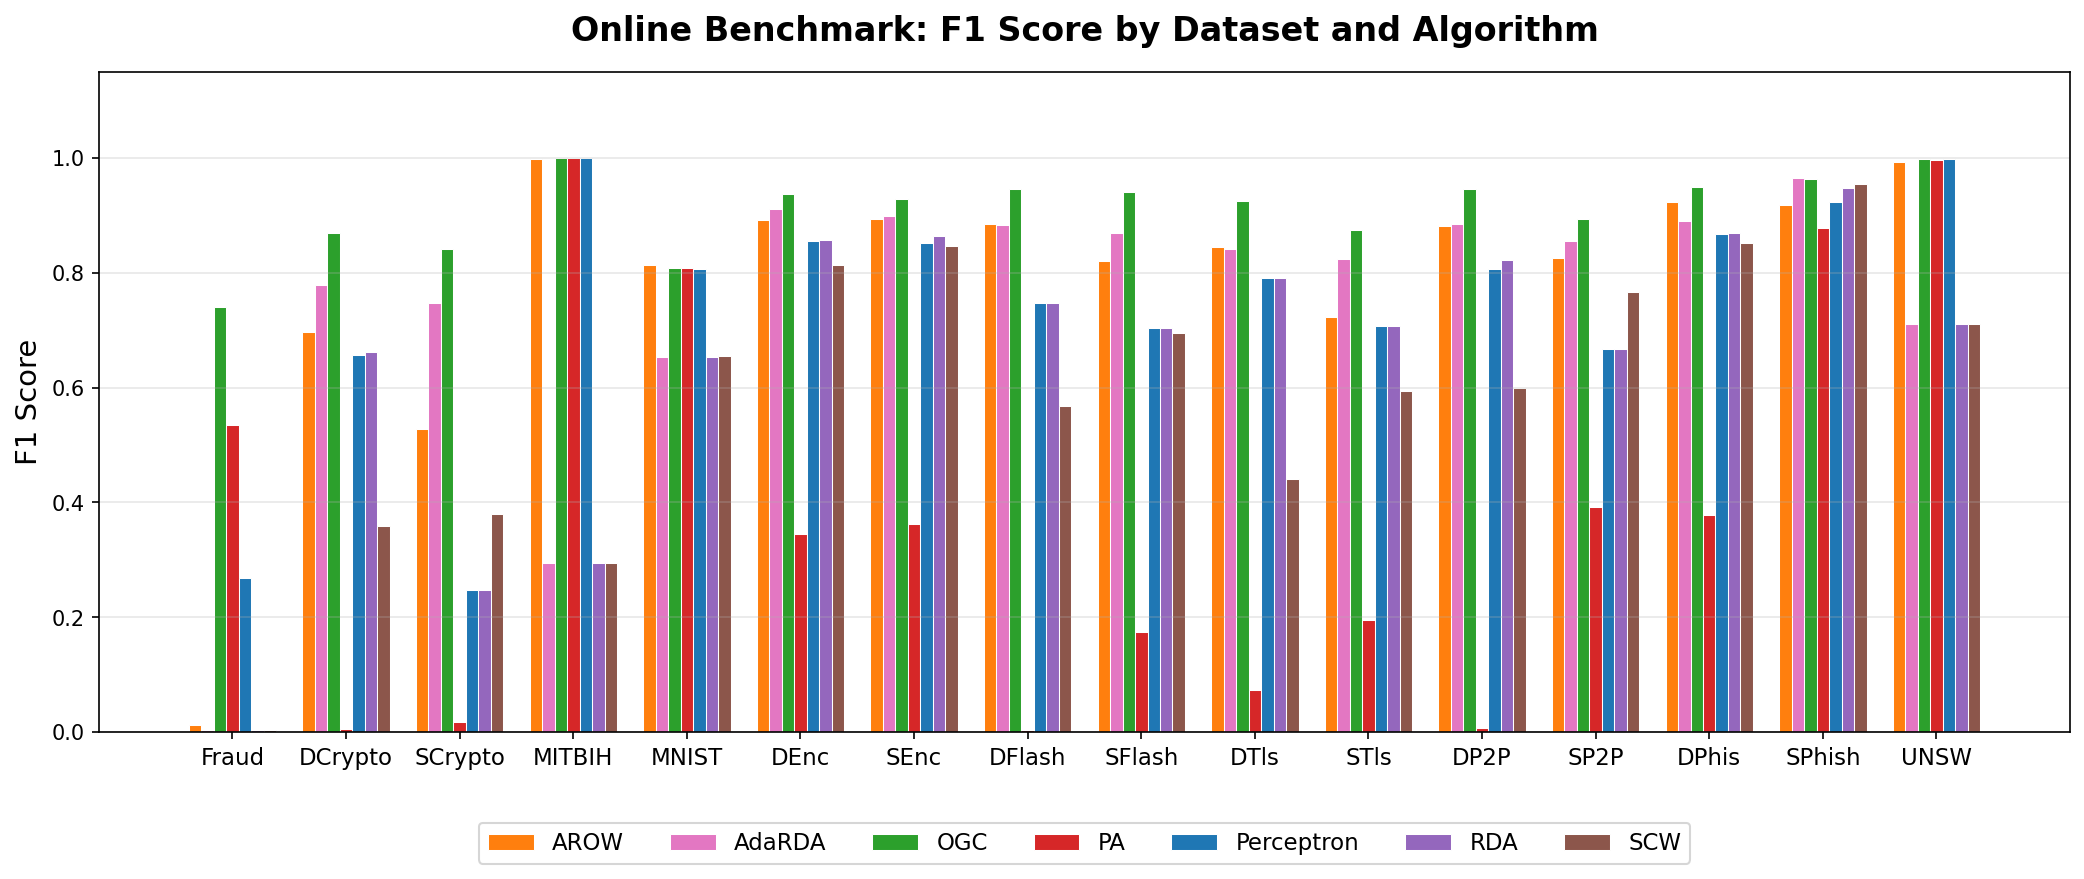
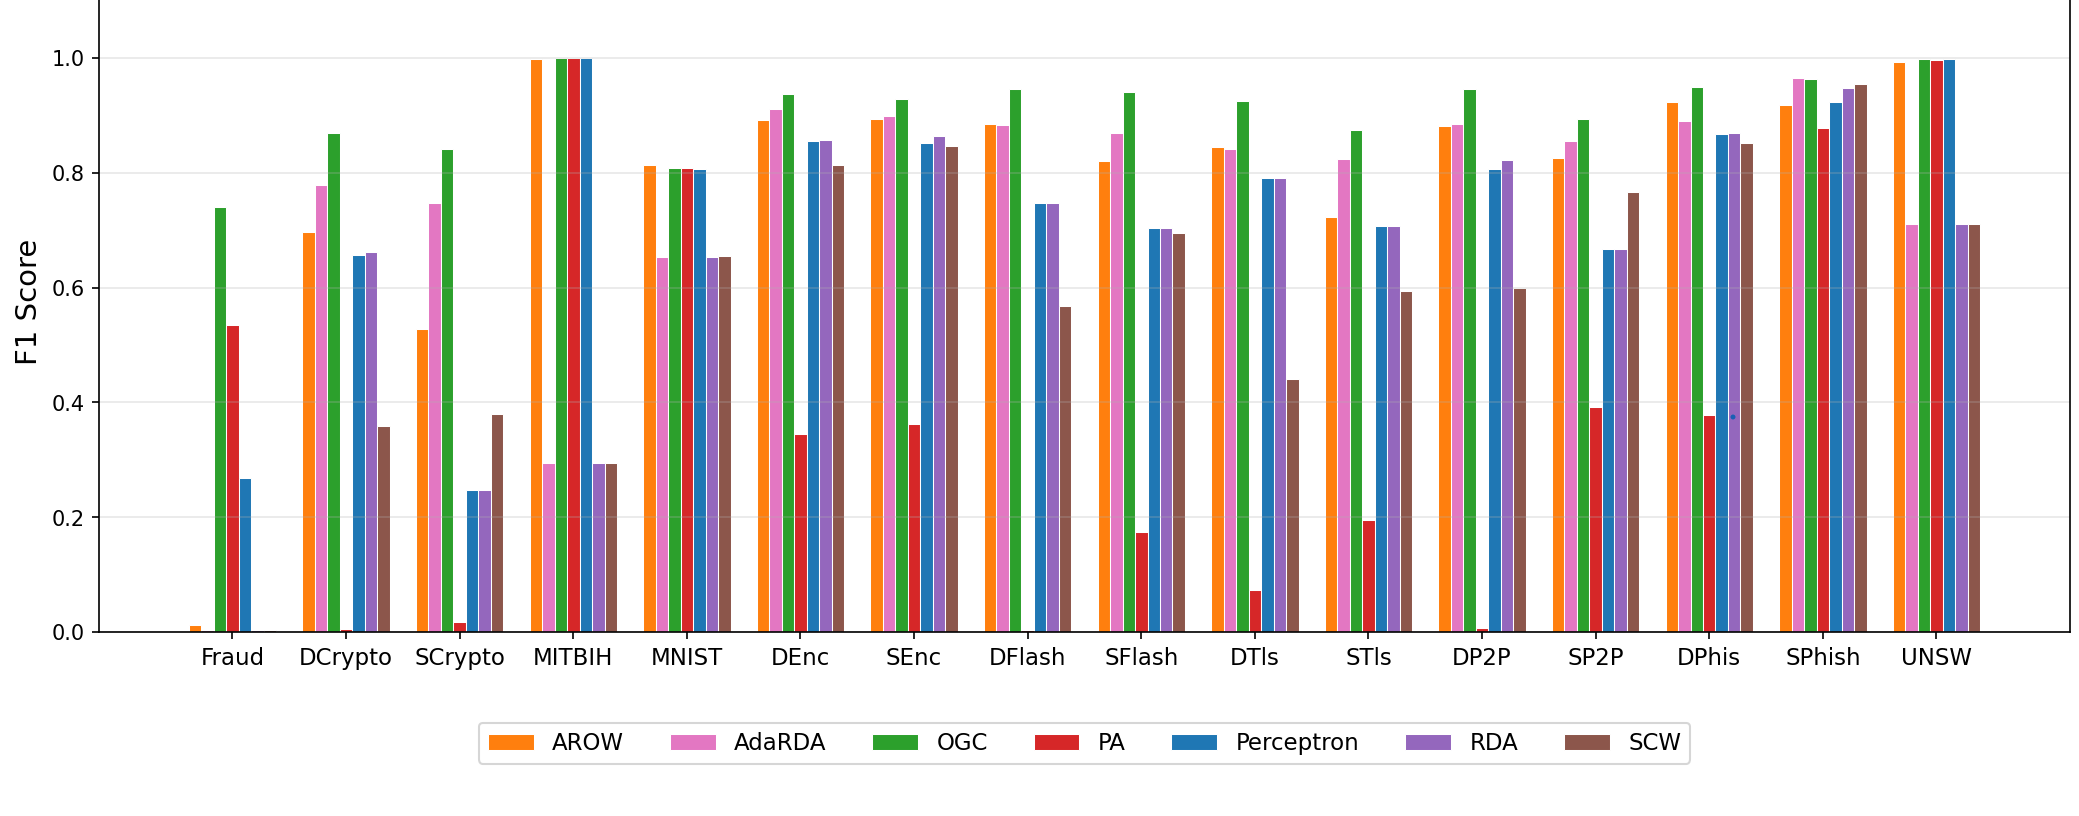
Data addition to dash

diff --git a/online-classification/dash/app.py b/online-classification/dash/app.py
@@ -5,6 +5,7 @@ from flask import Flask, render_template, jsonify, request, make_response
 import pandas as pd
 import numpy as np
 from sklearn.metrics import confusion_matrix
+from sklearn.preprocessing import StandardScaler
 import threading
 import time
 import logging
@@ -127,49 +128,139 @@ def OGC(X, y, initial_weights, eta=0.1):
         if y_actual * x.dot(w) < 1: w -= eta * (-y_actual * x)
     return w, y_pred
 
-def load_and_process_data(file_path):
-    """Loads and processes a single parquet file using the required aggregation logic."""
-    try:
-        df = pd.read_parquet(file_path)
-        
-        # Determine the correct time column name
-        if 'Time' in df.columns:
-            time_col = 'Time'
-        elif 'timestamp' in df.columns:
-            time_col = 'timestamp'
-        else:
-            raise KeyError("No time column found. Expected 'Time' or 'timestamp'.")
-        
-        # Determine the correct label column name
-        if 'Class' in df.columns:
-            label_col = 'Class'
-        elif 'label' in df.columns:
-            label_col = 'label'
-        else:
-            raise KeyError("No label column found. Expected 'Class' or 'label'.")
-        
-        df = df.sort_values([time_col]).reset_index(drop=True)
-        
+def _ogc_pretrain(X, y, eta=0.1):
+    """Single-pass OGC weight initialisation from training data (no UI updates)."""
+    w = np.zeros(X.shape[1], dtype=np.float64)
+    for i in range(len(X)):
+        x_i, y_i = X[i], y[i]
+        if y_i * x_i.dot(w) < 1:
+            w -= eta * (-y_i * x_i)
+    return w
+
+
+def detect_and_load_dataset(dataset_name, data_dir):
+    """Auto-detect dataset type from name and apply the correct loading strategy.
+
+    Returns
+    -------
+    X_stream : pd.DataFrame   — feature rows to stream through the simulation
+    y_stream : pd.Series      — corresponding labels
+    pretrained_weights : np.ndarray or None
+        Weights pre-trained on the training split (where applicable);
+        None for cybersecurity datasets that use prequential evaluation.
+
+    Dataset dispatch (mirrors experiments.py logic):
+      UNSW_NB15        → separate _train/_test parquets, StandardScaler, pretrain
+      MITBIH_Arrhythmia→ separate _train/_test parquets, pretrain (no scaling needed)
+      MNIST            → 80/20 shuffle split, binary label (≥5 → +1), pretrain
+      CreditFraud/Kaggle→ temporal 80/20 split, label col 'Class', pretrain
+      Cybersecurity    → single file grouped by timestamp, prequential (no pretrain)
+    """
+    # ── UNSW_NB15 ──────────────────────────────────────────────────────────────
+    if 'UNSW' in dataset_name.upper():
+        train_path = os.path.join(data_dir, 'UNSW_NB15_train.parquet')
+        test_path  = os.path.join(data_dir, 'UNSW_NB15_test.parquet')
+        df_tr = pd.read_parquet(train_path).dropna()
+        df_te = pd.read_parquet(test_path).dropna()
+        feat_cols = [c for c in df_tr.columns if c != 'label']
+        X_tr = df_tr[feat_cols].values.astype(np.float64)
+        X_te = df_te[feat_cols].values.astype(np.float64)
+        y_tr = np.where(df_tr['label'].values == 0, -1, 1)
+        y_te = np.where(df_te['label'].values == 0, -1, 1)
+        scaler = StandardScaler()
+        X_tr = scaler.fit_transform(X_tr)
+        X_te = scaler.transform(X_te)
+        pretrained_weights = _ogc_pretrain(X_tr, y_tr)
+        return pd.DataFrame(X_te, columns=feat_cols), pd.Series(y_te), pretrained_weights
+
+    # ── MITBIH Arrhythmia ──────────────────────────────────────────────────────
+    if 'MITBIH' in dataset_name.upper():
+        train_path = os.path.join(data_dir, 'MITBIH_Arrhythmia_train.parquet')
+        test_path  = os.path.join(data_dir, 'MITBIH_Arrhythmia_test.parquet')
+        df_tr = pd.read_parquet(train_path)
+        df_te = pd.read_parquet(test_path)
+        feat_cols = [c for c in df_tr.columns if c != 'label']
+        X_tr = df_tr[feat_cols].values.astype(np.float64)
+        X_te = df_te[feat_cols].values.astype(np.float64)
+        y_tr = np.where(df_tr['label'].values == 0, -1.0, 1.0)
+        y_te = np.where(df_te['label'].values == 0, -1.0, 1.0)
+        pretrained_weights = _ogc_pretrain(X_tr, y_tr)
+        return pd.DataFrame(X_te, columns=feat_cols), pd.Series(y_te), pretrained_weights
+
+    # ── MNIST ──────────────────────────────────────────────────────────────────
+    if 'MNIST' in dataset_name.upper():
+        fpath = os.path.join(data_dir, f'{dataset_name}.parquet')
+        df = pd.read_parquet(fpath)
+        df['label_binary'] = np.where(df['label'] >= 5, 1, -1)
+        df = df.sample(frac=1, random_state=42).reset_index(drop=True)
+        split = int(0.8 * len(df))
+        train_df, val_df = df.iloc[:split], df.iloc[split:]
+        feat_cols = [c for c in df.columns
+                     if c not in ['label', 'label_binary']
+                     and np.issubdtype(df[c].dtype, np.number)]
+        X_tr = train_df[feat_cols].values.astype(np.float64)
+        y_tr = train_df['label_binary'].values.astype(np.float64)
+        X_te = val_df[feat_cols].values.astype(np.float64)
+        y_te = val_df['label_binary'].values.astype(np.float64)
+        scaler = StandardScaler()
+        X_tr = scaler.fit_transform(X_tr)
+        X_te = scaler.transform(X_te)
+        pretrained_weights = _ogc_pretrain(X_tr, y_tr)
+        return pd.DataFrame(X_te, columns=feat_cols), pd.Series(y_te), pretrained_weights
+
+    # ── CreditFraud / Kaggle ───────────────────────────────────────────────────
+    if 'KAGGLE' in dataset_name.upper() or 'CREDITFRAUD' in dataset_name.upper():
+        fpath = os.path.join(data_dir, f'{dataset_name}.parquet')
+        df = pd.read_parquet(fpath)
         if 'user_id' in df.columns:
             df = df.drop(columns=['user_id'])
-        
-        x_df = df.groupby([time_col]).sum()
-        y_series = x_df[label_col].map(lambda x: 1 if x > 0 else -1)
-        x_df = x_df.drop(columns=[label_col])
-        return x_df, y_series
-    except Exception as e:
-        logging.error(f"Failed to load/process {file_path}: {e}")
-        raise
+        if 'Time' in df.columns:
+            df = df.sort_values('Time').reset_index(drop=True)
+        split_idx = int(0.8 * len(df))
+        train_data = df.iloc[:split_idx].copy()
+        test_data  = df.iloc[split_idx:].copy()
+        label_col  = 'Class' if 'Class' in df.columns else 'label'
+        drop_cols  = ['Time', 'timestamp', 'user_id', 'label', 'Class']
+        feat_cols  = [c for c in df.columns if c not in drop_cols]
+        X_tr = train_data[feat_cols].values.astype(np.float64)
+        X_te = test_data[feat_cols].values.astype(np.float64)
+        y_tr = np.where(train_data[label_col].values == 0, -1, 1)
+        y_te = np.where(test_data[label_col].values == 0, -1, 1)
+        scaler = StandardScaler()
+        X_tr = scaler.fit_transform(X_tr)
+        X_te = scaler.transform(X_te)
+        pretrained_weights = _ogc_pretrain(X_tr, y_tr)
+        return pd.DataFrame(X_te, columns=feat_cols), pd.Series(y_te), pretrained_weights
+
+    # ── Cybersecurity (single file, timestamp grouping, prequential) ───────────
+    fpath = os.path.join(data_dir, f'{dataset_name}.parquet')
+    df = pd.read_parquet(fpath)
+    time_col = ('Time' if 'Time' in df.columns
+                else 'timestamp' if 'timestamp' in df.columns
+                else None)
+    if time_col is None:
+        raise ValueError(f"No time column found in {dataset_name}")
+    if 'user_id' in df.columns:
+        df = df.drop(columns=['user_id'])
+    df = df.sort_values(time_col).reset_index(drop=True)
+    x_df = df.groupby(time_col).sum()
+    label_col = 'label' if 'label' in x_df.columns else 'Class'
+    y_series = x_df[label_col].map(lambda v: 1 if v > 0 else -1)
+    x_df = x_df.drop(columns=[label_col])
+    return x_df, y_series, None  # prequential — no pre-training
 
 # =============================================================================
 # SIMULATION STATE MANAGEMENT
 # =============================================================================
 class Simulation:
-    def __init__(self, dataset_name, X_data, y_data):
+    def __init__(self, dataset_name, X_data, y_data, pretrained_weights=None):
         self.dataset_name, self.X_data, self.y_data = dataset_name, X_data, y_data
         self.status, self.logs, self.alerts = "running", [], []
-        self.weights = np.zeros(X_data.shape[1])
+        self.weights = (pretrained_weights.copy()
+                        if pretrained_weights is not None
+                        else np.zeros(X_data.shape[1]))
         self.total_positives, self.total_negatives, self.false_positives, self.false_negatives = 0, 0, 0, 0
+        self.predicted_threats = 0  # tp + fp: times the model predicted a threat
         self.current_index = 0
         self.is_paused = False
         self.lock = threading.Lock()
@@ -201,10 +292,11 @@ class Simulation:
     def update_metrics(self, y_true, y_pred):
         try:
             tn, fp, fn, tp = confusion_matrix(y_true, y_pred, labels=[-1, 1]).ravel()
-            self.total_positives += (tp + fn)
-            self.total_negatives += (tn + fp)
+            self.total_positives += (tp + fn)      # actual positives (for FNR)
+            self.total_negatives += (tn + fp)      # actual negatives (for FPR)
             self.false_positives += fp
             self.false_negatives += fn
+            self.predicted_threats += (tp + fp)    # times model predicted +1
         except ValueError:
             self.logs.append(f"[{time.strftime('%H:%M:%S')}] Metrics Warning: Chunk had only one class.")
 
@@ -223,8 +315,8 @@ class Simulation:
                 "fnr": float(fnr),
                 "fpr": float(fpr),
                 "instances_processed": int(self.current_index),
-                "total_positives_seen": int(self.total_positives),
-                "total_negatives_seen": int(self.total_negatives),
+                "total_positives_seen": int(self.predicted_threats),
+                "total_negatives_seen": int(self.current_index) - int(self.predicted_threats),
                 "is_paused": self.is_paused
             }
 
@@ -347,13 +439,27 @@ def run_live_threat_detection(simulation_id):
 app = Flask(__name__)
 
 def find_available_datasets():
+    """Return canonical dataset names for all parquets found in DATA_DIRECTORY.
+
+    Paired files (e.g. UNSW_NB15_train / UNSW_NB15_test) are collapsed into a
+    single canonical entry (e.g. UNSW_NB15).
+    """
     if not os.path.exists(DATA_DIRECTORY):
         logging.error(f"Data directory '{DATA_DIRECTORY}' not found!")
         return []
     try:
-        files = [f.replace('.parquet', '') for f in os.listdir(DATA_DIRECTORY) 
-                 if f.endswith('.parquet') and 'MNIST' not in f.upper()]
-        return sorted(files)
+        datasets = set()
+        for f in os.listdir(DATA_DIRECTORY):
+            if not f.endswith('.parquet'):
+                continue
+            name = f.replace('.parquet', '')
+            # Collapse _train / _test pairs into their canonical name
+            if name.endswith('_train') or name.endswith('_test'):
+                canonical = name.rsplit('_', 1)[0]
+                datasets.add(canonical)
+            else:
+                datasets.add(name)
+        return sorted(datasets)
     except Exception as e:
         logging.error(f"Error scanning data directory: {e}")
         return []
@@ -371,17 +477,14 @@ def start_simulation():
     if not dataset_name:
         return jsonify({"status": "error", "message": "No dataset selected."}), 400
 
-    file_path = os.path.join(DATA_DIRECTORY, f"{dataset_name}.parquet")
-    if not os.path.exists(file_path):
-        return jsonify({"status": "error", "message": f"Data for {dataset_name} not found."}), 400
-
     try:
-        X_data, y_data = load_and_process_data(file_path)
+        X_data, y_data, pretrained_weights = detect_and_load_dataset(dataset_name, DATA_DIRECTORY)
     except Exception as e:
+        logging.error(f"Failed to load {dataset_name}: {e}")
         return jsonify({"status": "error", "message": f"Failed to load data for {dataset_name}: {e}"}), 400
-        
+
     simulation_id = str(uuid.uuid4())
-    sim_instance = Simulation(dataset_name, X_data, y_data)
+    sim_instance = Simulation(dataset_name, X_data, y_data, pretrained_weights)
     
     with simulations_lock:
         simulations[simulation_id] = sim_instance
